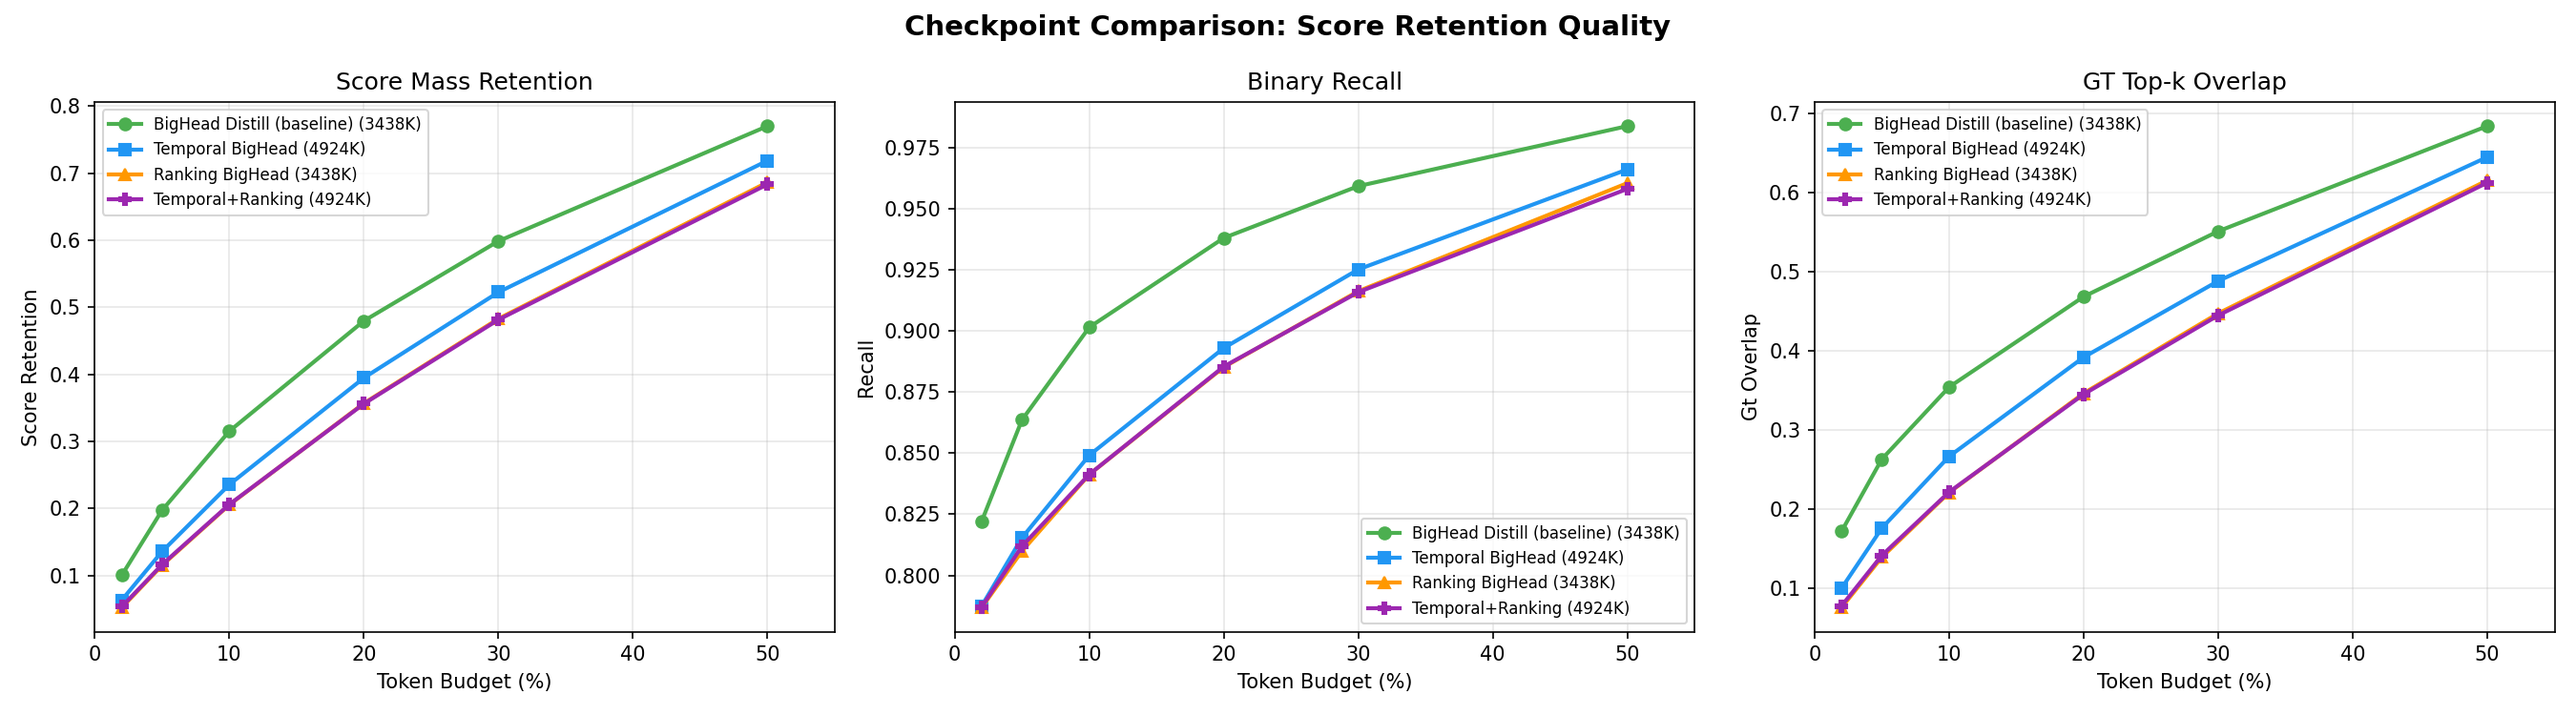
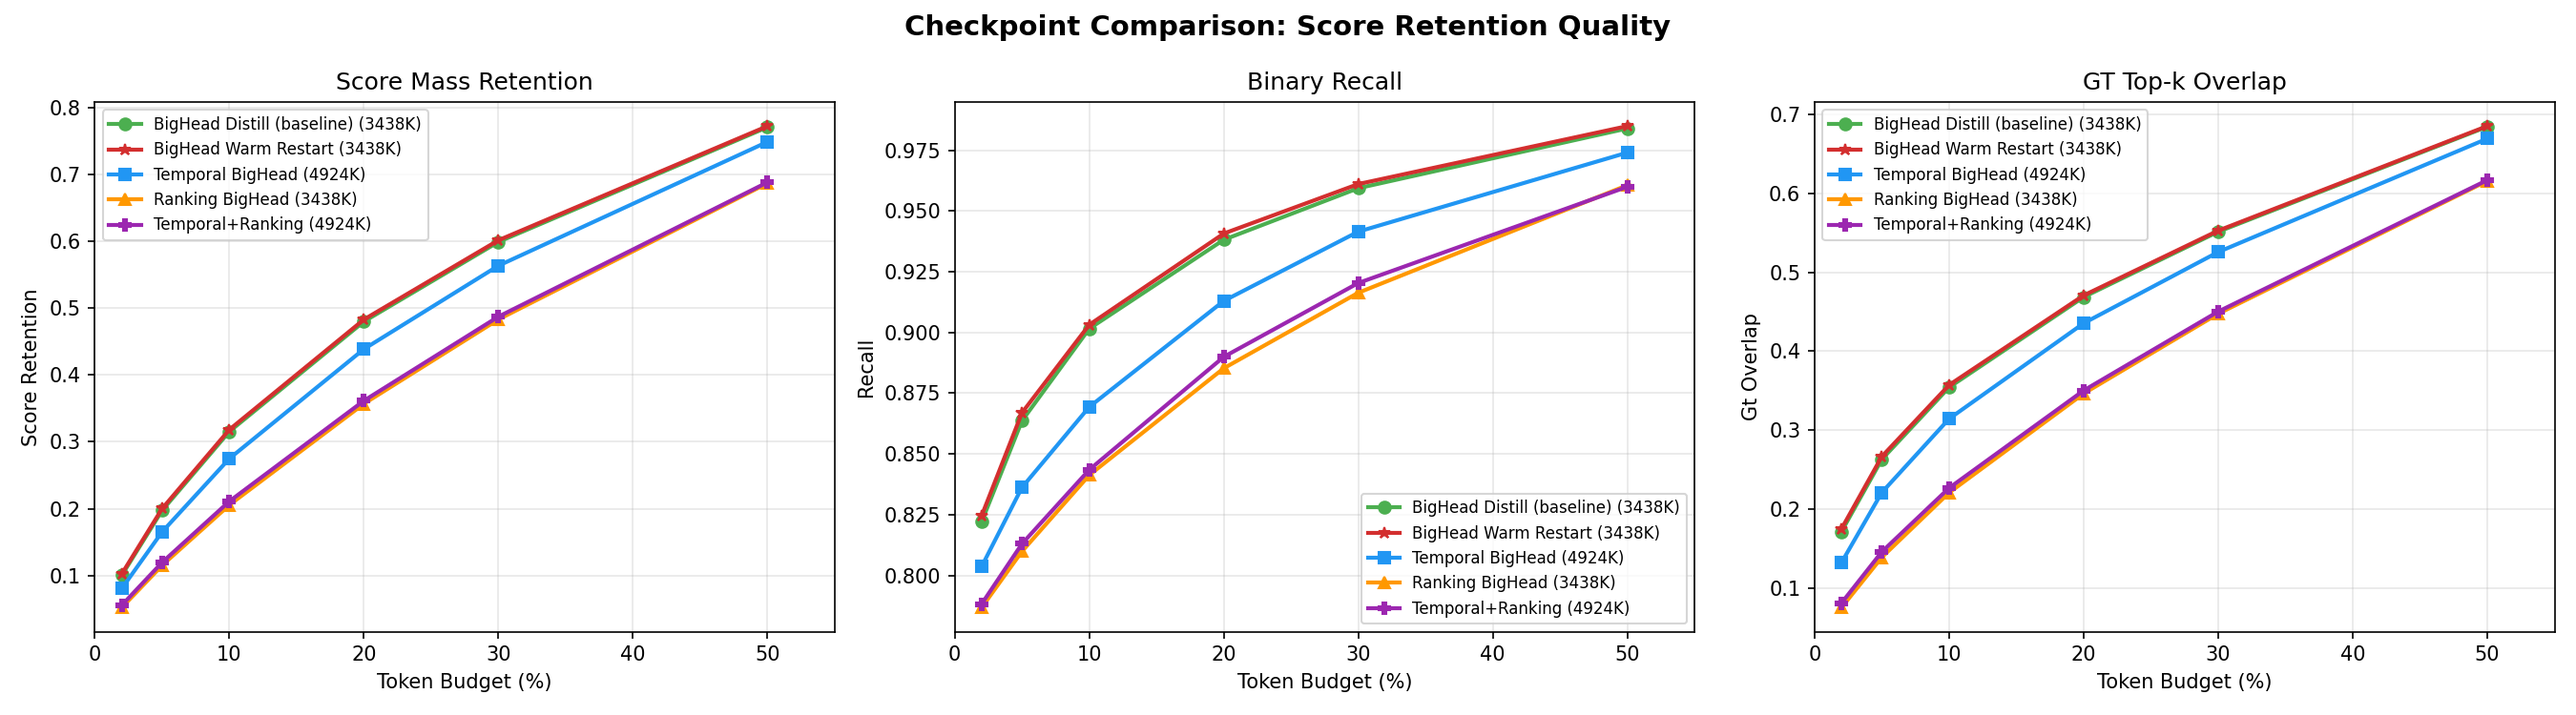
Add warm-restart to checkpoint comparison; capture updated retention
Warm Restart beats baseline at every budget (e.g., 31.8% vs 31.5% at 10%).
Also adds plot_training_curves_all.py to regenerate convergence figures
from wandb across all running experiments.

diff --git a/semantic_autogaze/plot_training_curves_all.py b/semantic_autogaze/plot_training_curves_all.py
@@ -1,0 +1,77 @@
+"""Generate a training-curves comparison figure across all active runs.
+
+Pulls data from wandb and plots val BCE vs epoch for every experiment,
+highlighting the baseline and the new best (warm restart).
+"""
+
+import os
+import argparse
+import matplotlib.pyplot as plt
+import wandb
+
+
+# Runs to include and their display config
+RUNS = [
+    # (run_id, label, color, linestyle)
+    ("w7ly4c8w", "BigHead Distill (baseline, 0.0668)", "tab:blue",   "-"),
+    ("lkrzsjm4", "Warm Restart (0.0666)",             "tab:red",    "-"),
+    ("evn4q4am", "Temporal BigHead (0.0700)",         "tab:green",  "-"),
+    ("6kslwkls", "Deep Temporal (2T+3S)",             "tab:purple", "--"),
+    ("36huj7kn", "Pre-decoder Student",               "tab:orange", "--"),
+]
+
+PROJECT = "semantic-autogaze"
+
+
+def main(output_path: str) -> None:
+    api = wandb.Api()
+    fig, (ax_full, ax_zoom) = plt.subplots(1, 2, figsize=(14, 5))
+
+    for run_id, label, color, ls in RUNS:
+        try:
+            run = api.run(f"{PROJECT}/{run_id}")
+        except Exception as e:
+            print(f"Skipping {run_id}: {e}")
+            continue
+
+        epochs, vals = [], []
+        for row in run.history(keys=["epoch", "val/epoch_bce"], samples=500, pandas=False):
+            e, v = row.get("epoch"), row.get("val/epoch_bce")
+            if e is not None and v is not None:
+                epochs.append(e)
+                vals.append(v)
+        if not epochs:
+            print(f"No data for {run_id}")
+            continue
+
+        best = min(vals)
+        display_label = f"{label} [{run.state}, best={best:.4f}]"
+        ax_full.plot(epochs, vals, label=display_label, color=color, linestyle=ls, linewidth=1.8)
+        ax_zoom.plot(epochs, vals, label=display_label, color=color, linestyle=ls, linewidth=1.8)
+
+    ax_full.set_xlabel("Epoch")
+    ax_full.set_ylabel("Val BCE")
+    ax_full.set_title("Training Convergence — All Variants")
+    ax_full.grid(True, alpha=0.3)
+    ax_full.legend(loc="upper right", fontsize=8)
+
+    ax_zoom.set_xlabel("Epoch")
+    ax_zoom.set_ylabel("Val BCE")
+    ax_zoom.set_title("Zoom: 0.065 – 0.085")
+    ax_zoom.set_ylim(0.065, 0.085)
+    ax_zoom.axhline(0.0668, color="gray", linestyle=":", linewidth=1, label="baseline 0.0668")
+    ax_zoom.axhline(0.0666, color="tab:red", linestyle=":", linewidth=1, label="warm restart 0.0666")
+    ax_zoom.grid(True, alpha=0.3)
+    ax_zoom.legend(loc="upper right", fontsize=8)
+
+    plt.tight_layout()
+    os.makedirs(os.path.dirname(output_path) or ".", exist_ok=True)
+    plt.savefig(output_path, dpi=150, bbox_inches="tight")
+    print(f"Saved {output_path}")
+
+
+if __name__ == "__main__":
+    parser = argparse.ArgumentParser()
+    parser.add_argument("--output", default="results/paper_figures/training_curves_all.png")
+    args = parser.parse_args()
+    main(args.output)

diff --git a/semantic_autogaze/eval_all_checkpoints.py b/semantic_autogaze/eval_all_checkpoints.py
@@ -132,6 +132,15 @@ def main(args):
             "marker": "o",
         },
         {
+            "name": "BigHead Warm Restart",
+            "path": "results/bighead_warmrestart/best_bighead_student.pt",
+            "class": BigSimilarityHead,
+            "kwargs": {"hidden_dim": 192, "embedding_dim": 512, "expanded_dim": 384,
+                       "n_attn_heads": 6, "n_attn_layers": 2, "grid_size": 14},
+            "color": "#D32F2F",
+            "marker": "*",
+        },
+        {
             "name": "Temporal BigHead",
             "path": "results/temporal_bighead/best_temporal_bighead.pt",
             "class": None,  # Will import if available

diff --git a/results/report.md b/results/report.md
@@ -17,14 +17,14 @@ reduction for video language models.
 
 ### 1. Score Retention (CLIPSeg GT Mass Captured)
 
-| Budget | BigHead Distill (baseline) | Temporal BigHead (ep21) | Ranking BigHead (ep13) | Temporal+Ranking (ep14) |
-|--------|-------|-------|-------|-------|
-| 2% | 0.100 | 0.063 | 0.052 | 0.053 |
-| 5% | 0.197 | 0.136 | 0.115 | 0.116 |
-| 10% | 0.315 | 0.236 | 0.205 | 0.206 |
-| 20% | 0.480 | 0.395 | 0.357 | 0.356 |
-| 30% | 0.599 | 0.523 | 0.483 | 0.482 |
-| 50% | 0.770 | 0.719 | 0.687 | 0.684 |
+| Budget | BigHead Distill (baseline) | **Warm Restart** | Temporal BigHead (ep46) | Ranking BigHead (ep13) | Temporal+Ranking (ep14) |
+|--------|-------|-------|-------|-------|-------|
+| 2% | 0.100 | **0.102** | 0.080 | 0.052 | 0.055 |
+| 5% | 0.197 | **0.200** | 0.165 | 0.115 | 0.120 |
+| 10% | 0.315 | **0.318** | 0.275 | 0.205 | 0.211 |
+| 20% | 0.480 | **0.483** | 0.439 | 0.357 | 0.361 |
+| 30% | 0.599 | **0.601** | 0.563 | 0.483 | 0.487 |
+| 50% | 0.770 | **0.772** | 0.749 | 0.687 | 0.688 |
 
 ### 2. Feature Retrieval Proxy (100 videos)
 
